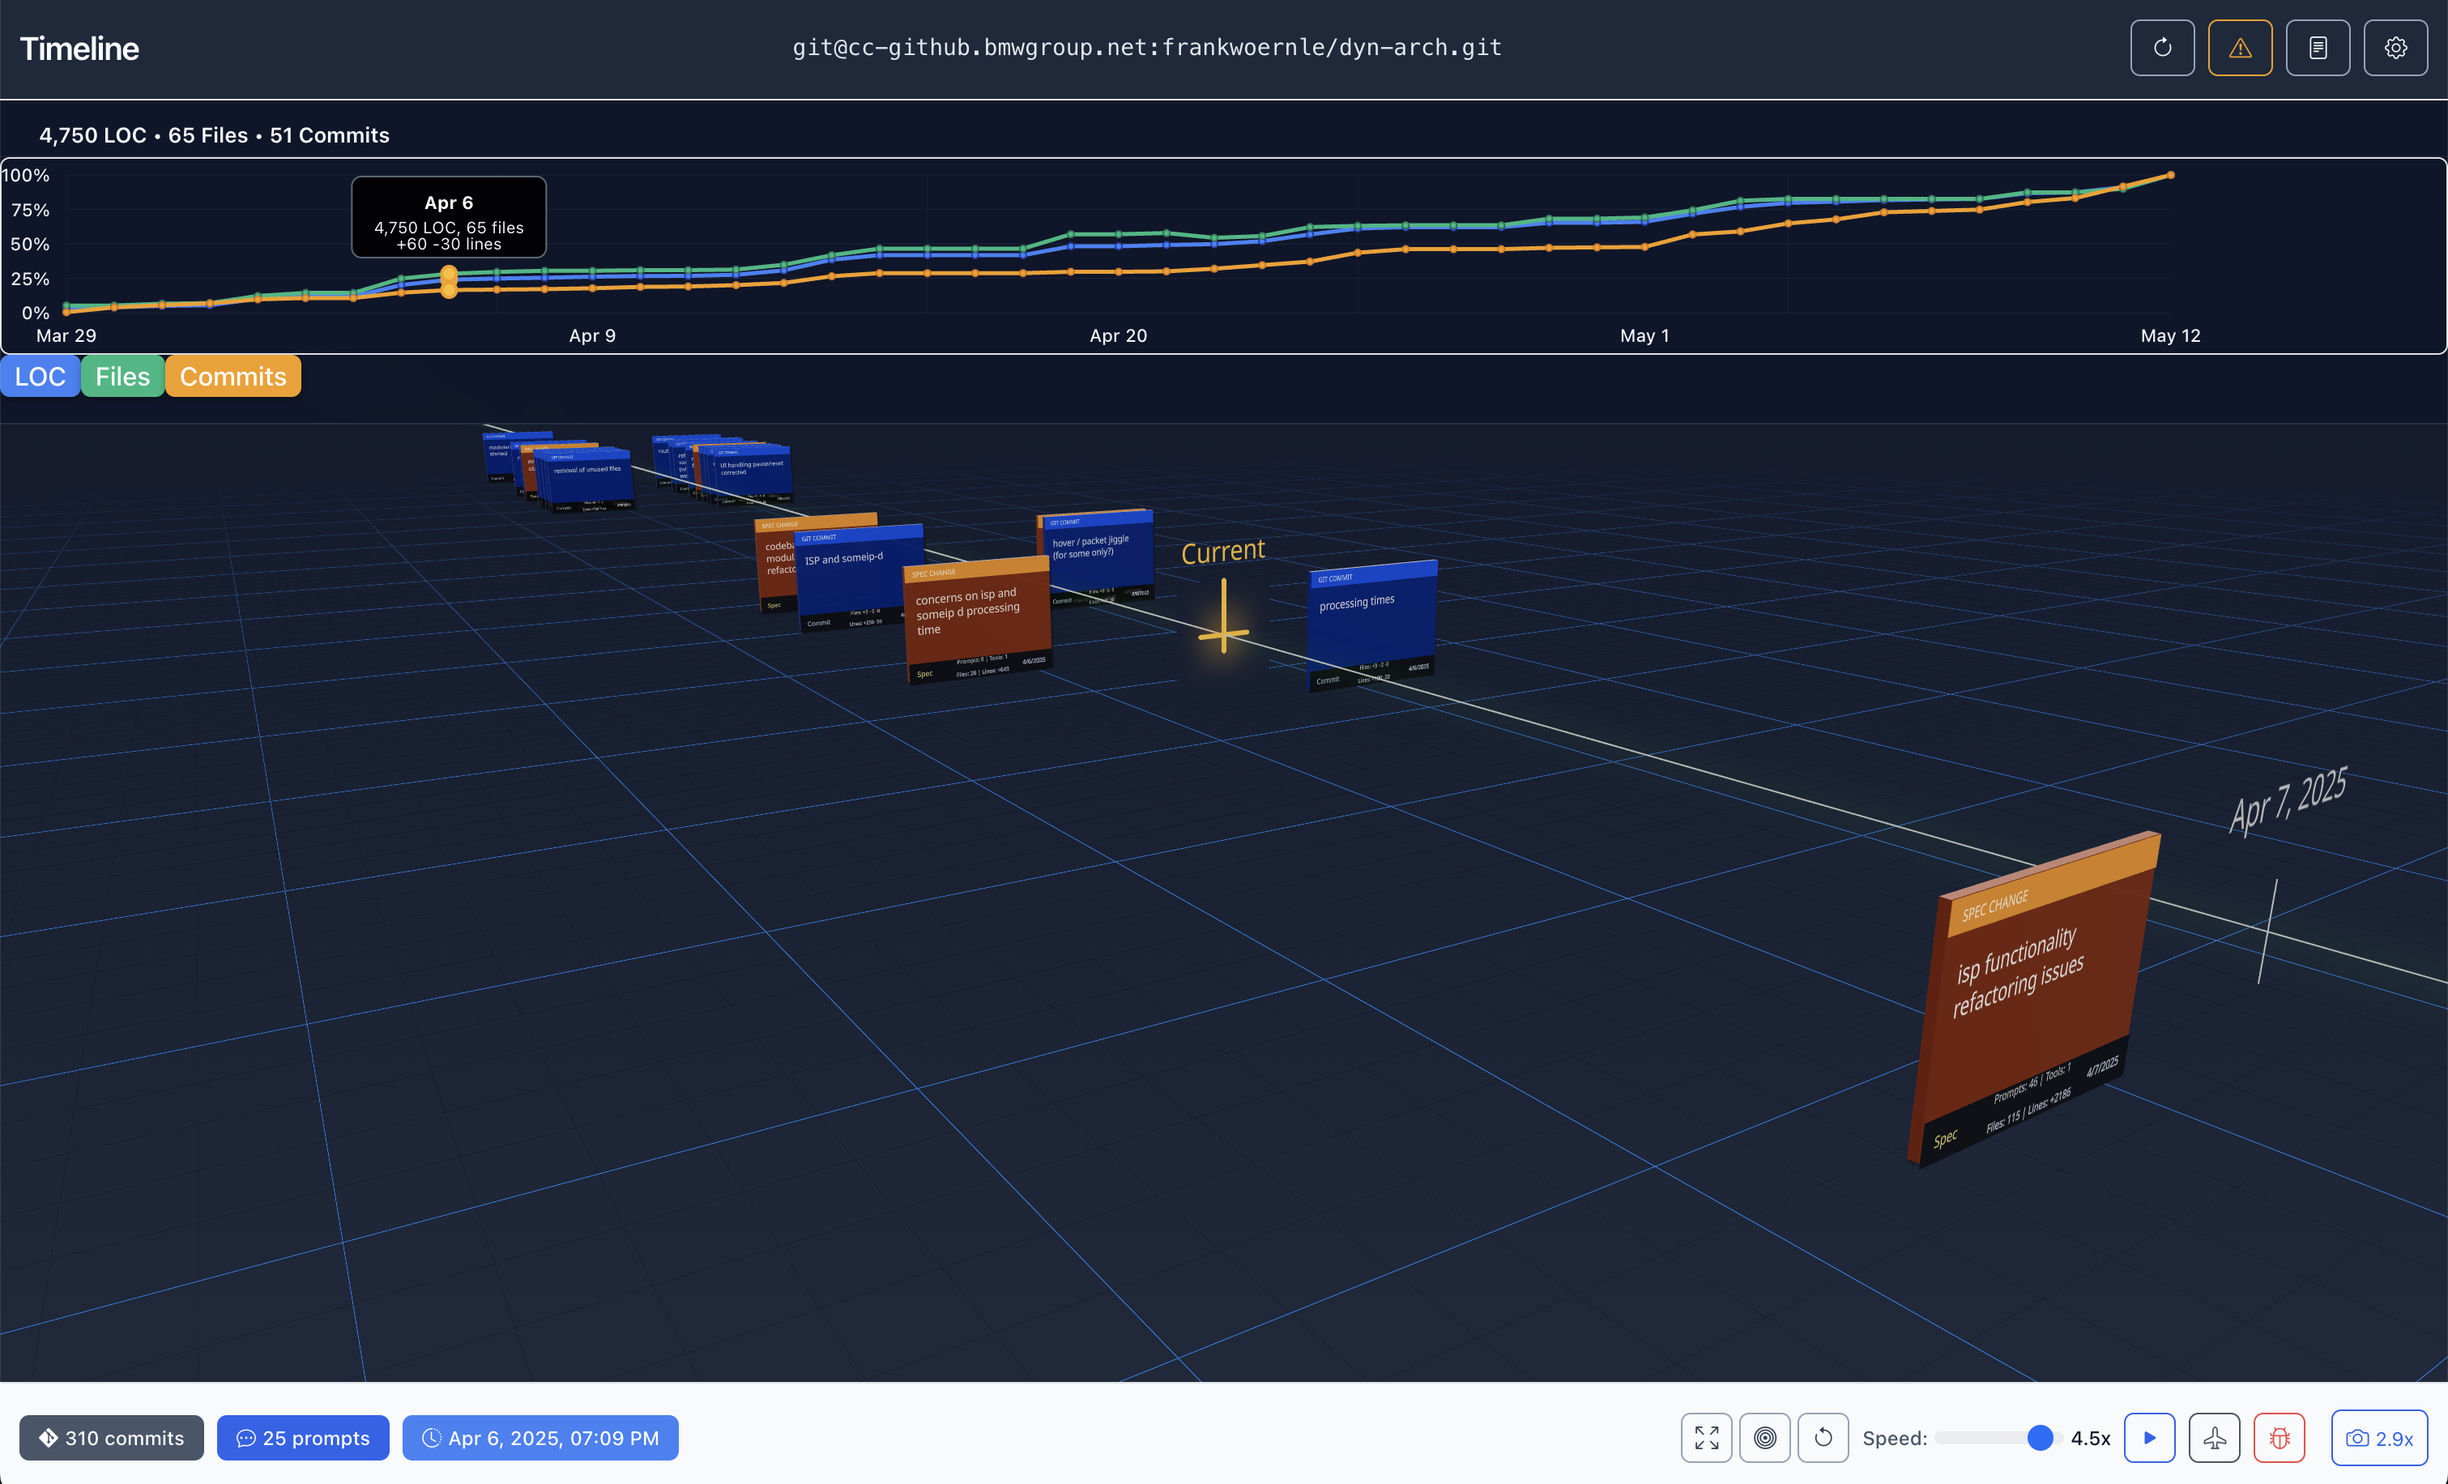
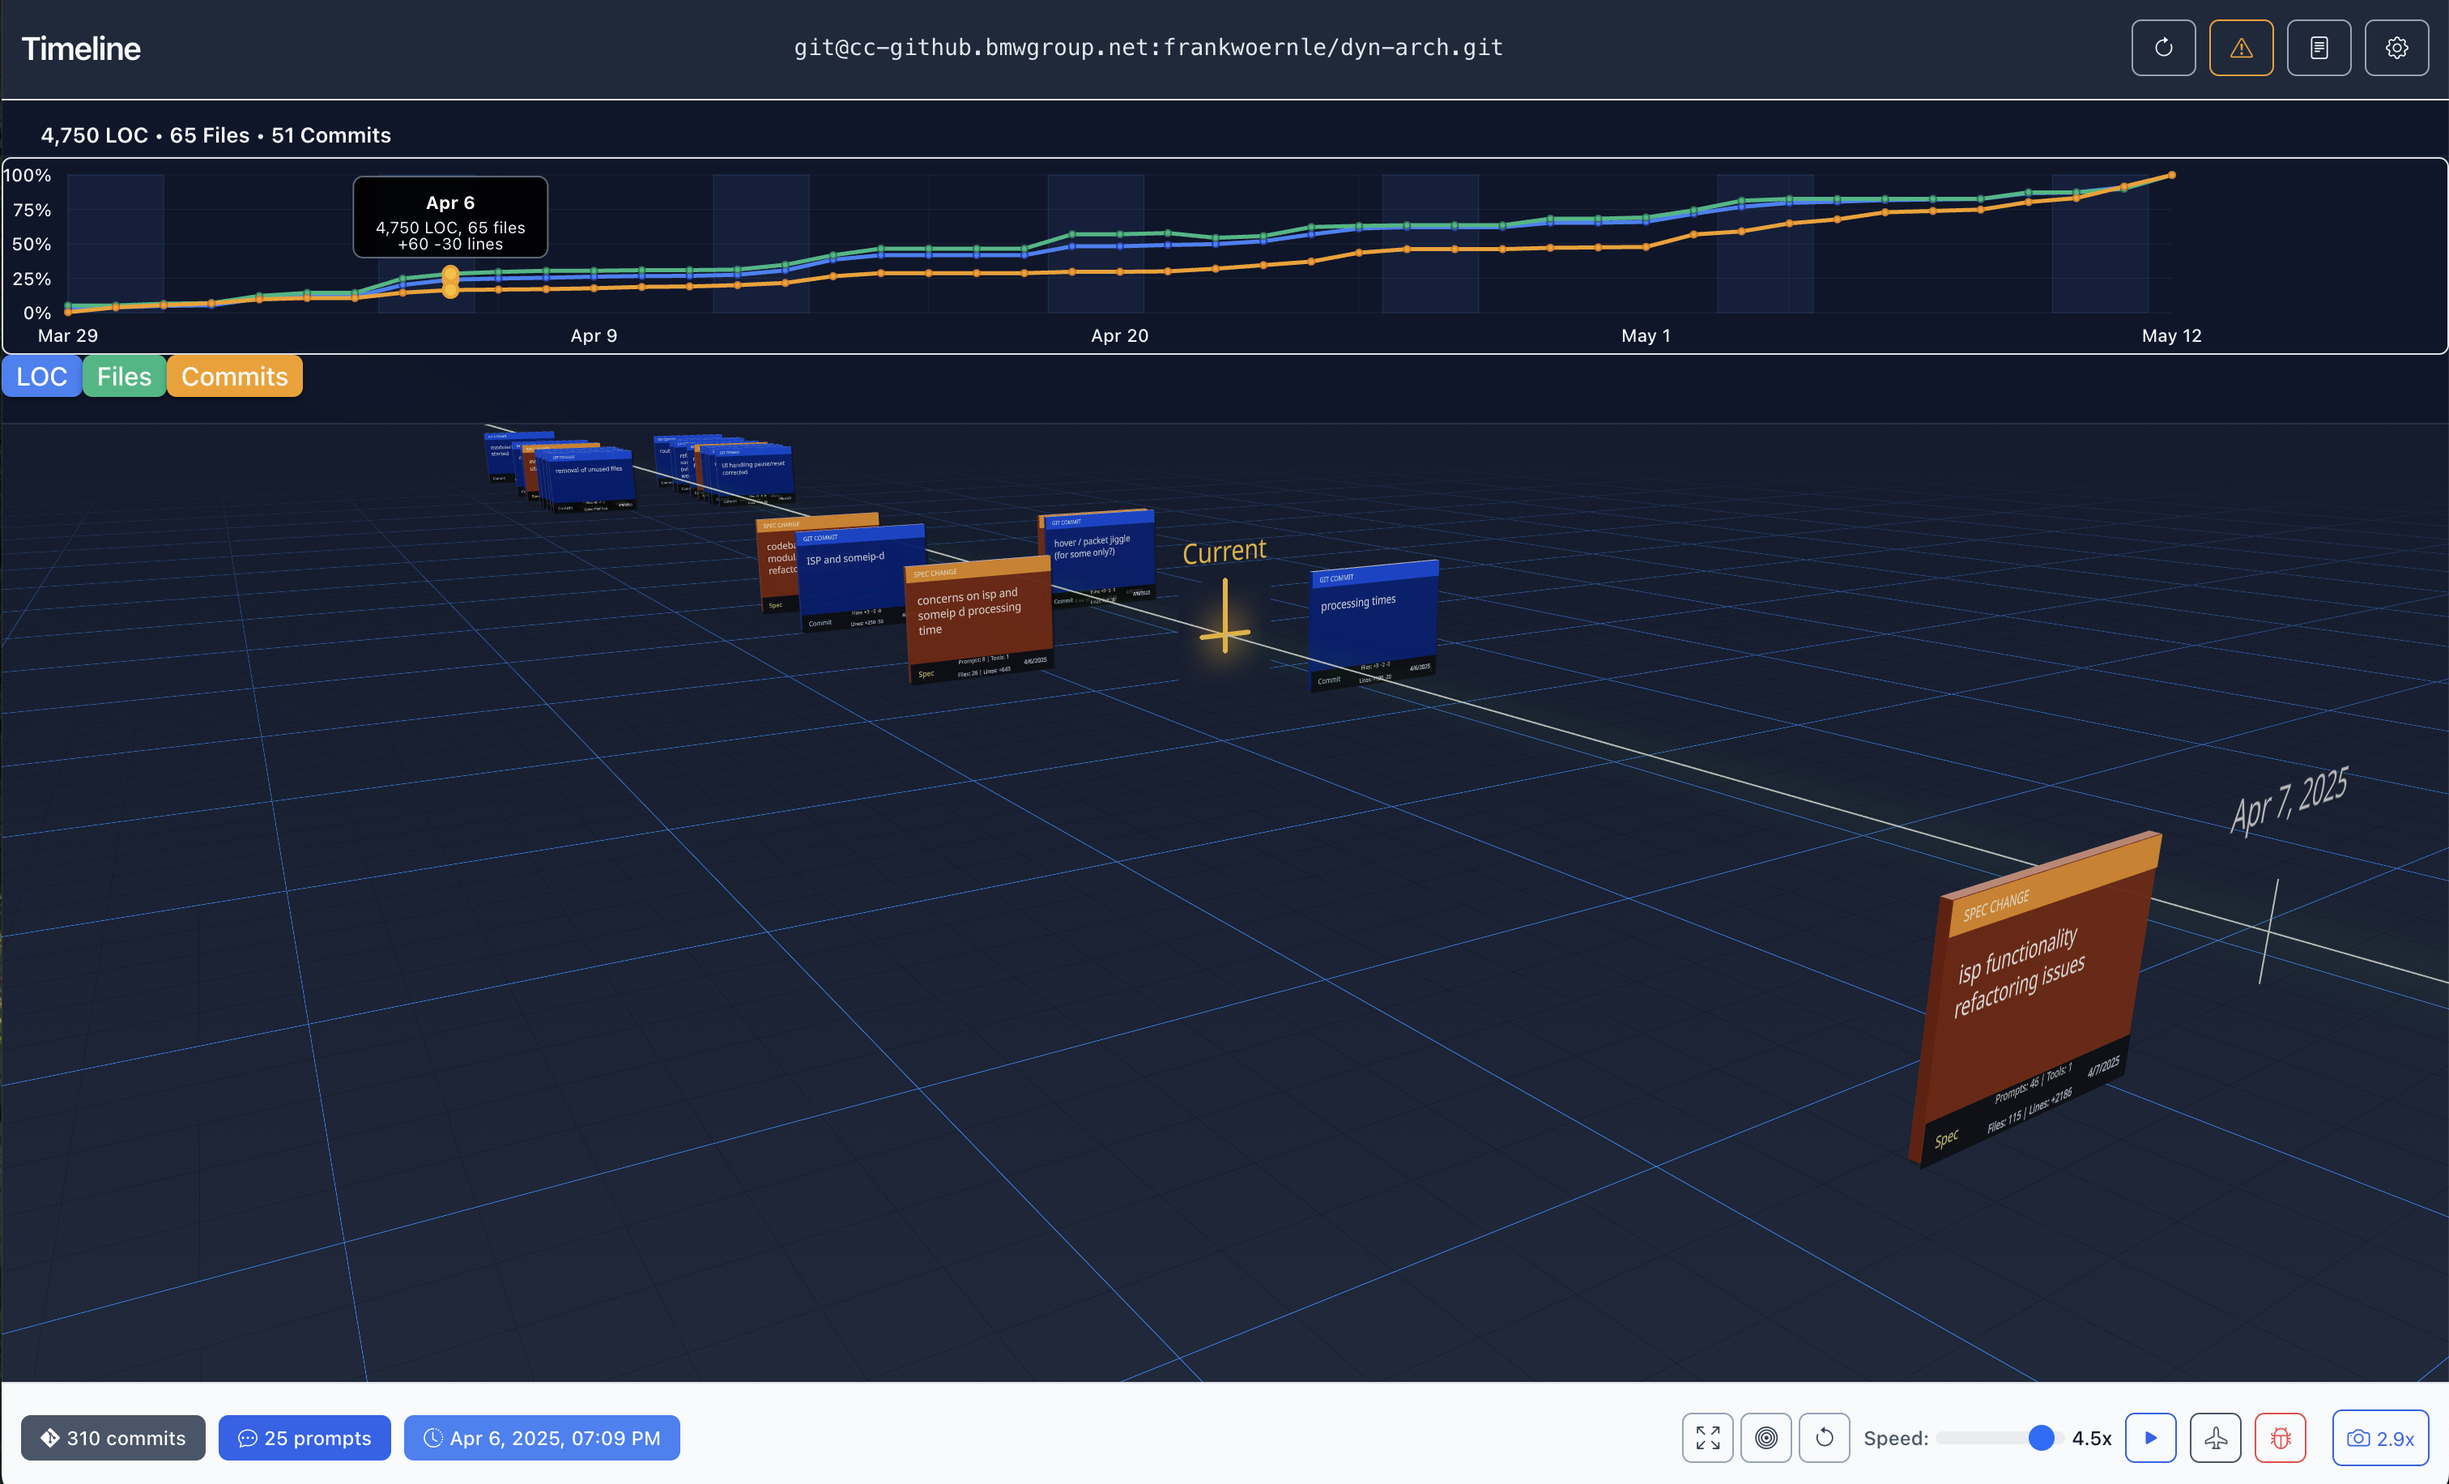
weekend markers

diff --git a/src/components/metrics/HorizontalMetricsPlot.tsx b/src/components/metrics/HorizontalMetricsPlot.tsx
@@ -73,6 +73,7 @@ export const HorizontalMetricsPlot: React.FC<HorizontalMetricsPlotProps> = ({
       linesAdded: point.linesAdded,
       linesDeleted: point.linesDeleted,
       filesModified: point.filesModified,
+      isWeekend: point.timestamp.getDay() === 0 || point.timestamp.getDay() === 6, // Sunday = 0, Saturday = 6
     }));
   }, [metricsPoints]);
 
@@ -261,6 +262,54 @@ export const HorizontalMetricsPlot: React.FC<HorizontalMetricsPlotProps> = ({
                       />
                     );
                   })}
+
+                  {/* Weekend markers - faint blue bars spanning Friday evening to Monday morning */}
+                  {(() => {
+                    const weekendBars: React.ReactElement[] = [];
+                    let weekendStart = -1;
+
+                    for (let i = 0; i < chartData.length; i++) {
+                      const d = chartData[i];
+                      const isCurrentWeekend = d.isWeekend;
+                      const isNextWeekend = i < chartData.length - 1 ? chartData[i + 1].isWeekend : false;
+
+                      // Start of weekend period
+                      if (isCurrentWeekend && weekendStart === -1) {
+                        weekendStart = i;
+                      }
+
+                      // End of weekend period (or end of data)
+                      if (weekendStart !== -1 && (!isNextWeekend || i === chartData.length - 1)) {
+                        // Calculate positions with half-day offsets
+                        const dayWidth = innerWidth / (chartData.length - 1);
+
+                        // Start bar half a day before the first weekend day (Friday evening)
+                        const startX = (weekendStart / (chartData.length - 1)) * innerWidth - (dayWidth * 0.5);
+
+                        // End bar half a day after the last weekend day (Monday morning)
+                        const endX = (i / (chartData.length - 1)) * innerWidth + (dayWidth * 0.5);
+
+                        const width = Math.max(endX - startX, dayWidth); // Ensure minimum weekend width
+
+                        weekendBars.push(
+                          <rect
+                            key={`weekend-bar-${weekendStart}-${i}`}
+                            x={Math.max(0, startX)} // Don't go negative
+                            y={0}
+                            width={Math.min(width, innerWidth - Math.max(0, startX))} // Don't exceed chart width
+                            height={innerHeight}
+                            fill="rgba(59, 130, 246, 0.08)" // Faint blue background
+                            stroke="rgba(59, 130, 246, 0.2)" // Slightly more visible border
+                            strokeWidth={0.5}
+                          />
+                        );
+
+                        weekendStart = -1;
+                      }
+                    }
+
+                    return weekendBars;
+                  })()}
 
                   {/* Metric lines */}
                   {visibleMetrics.includes('linesOfCode') && (
